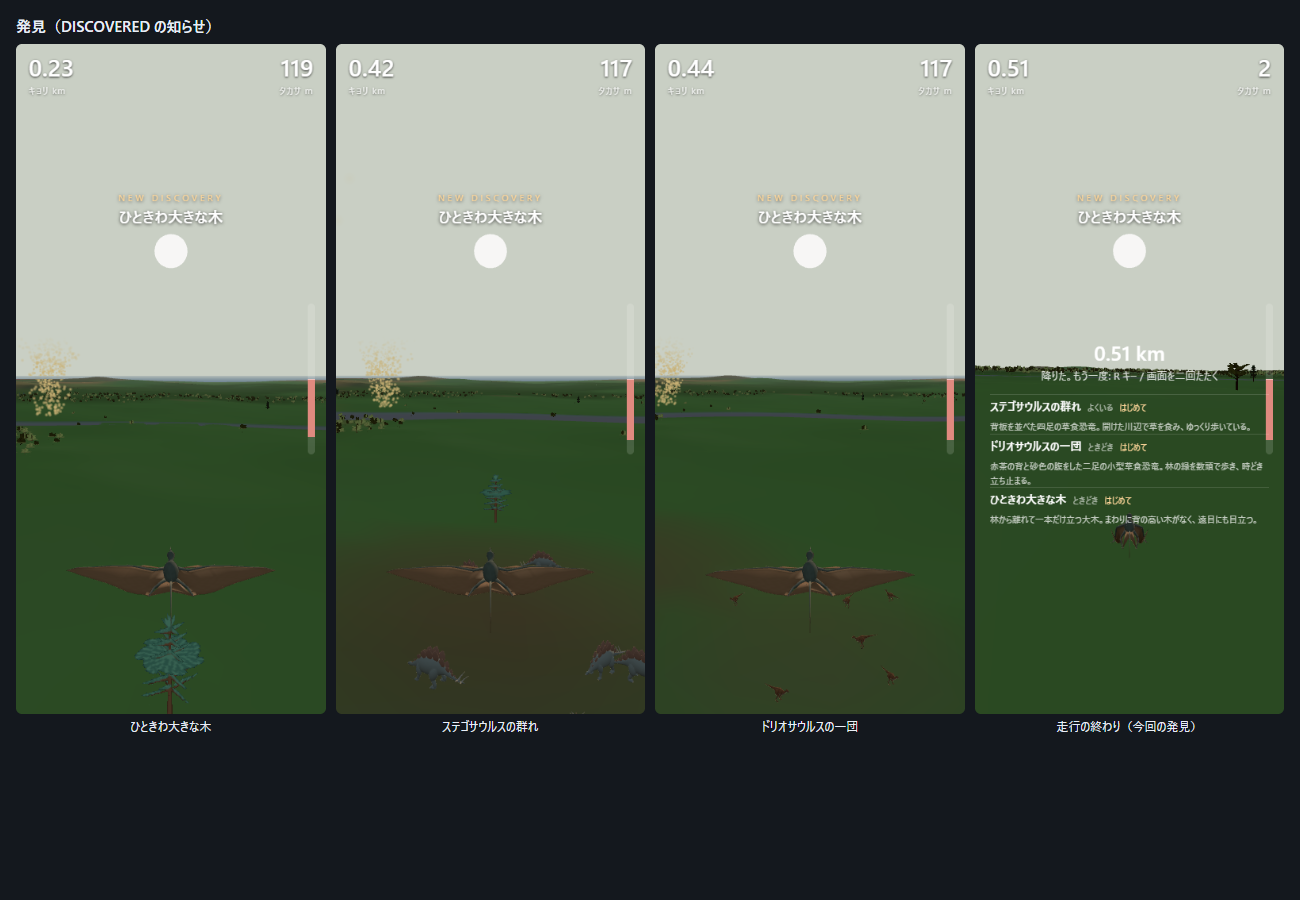
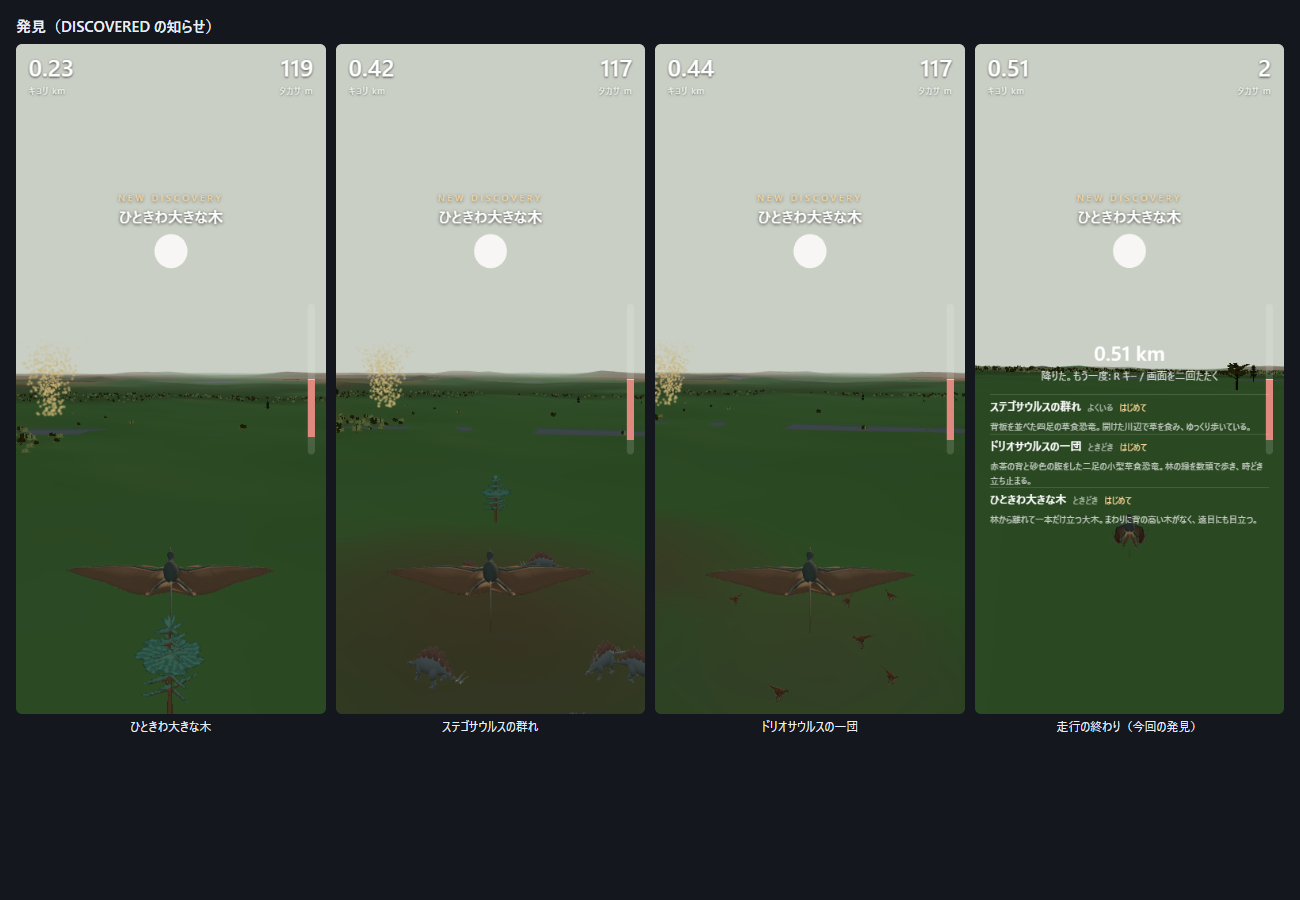
地面に「川に見える横線」が出るのを直した(地平の層を足し、層の中心をそろえた)
所長の画面に、川ではないまっすぐな横線が出ていた。

画素に何が映っているかをレイで直接調べたところ、線の正体は
「8.5km先の水面」だった。遠景の地面が6.5kmで終わり、その先は
30km四方の水の板が霧に隠れずに見えていた。近景/遠景の継ぎ目ではない。

ただし継ぎ目のすき間も別に実在した。層ごとに中心を丸めていたため
中心が最大46mずれ、どちらの地面も無い帯が最大164mできていた。

直したこと
- 地平の層(34km・升目500m)を足した。遠景の外側を埋め、霧に溶けるまで地面が続く
- 3層とも同じ中心を使う。すき間は実測0.0m(60秒の飛行中、720回測って最大0.0m)
- くり抜きは「1升 + 1段」内側まで。作り直しが1コマ遅れてもすき間が空かない
- 作り直しは1コマ1層だけに散らす。遠景は升目144mへ粗くした(近景への突き抜けは最大2.8m)

測った結果
- 水面のまっすぐな線: 直す前 10行/4行 -> 直した後 0行/0行(4つの高さ・向きで0)
- 地面の作り直し(中央値): 近景11.3 / 遠景16.0 / 地平8.5 ms。
  1kmあたりの総量は 537ms -> 248ms(近景の作り直しが1/4の頻度になったため)
- 検査 tools/check-ground.mjs を追加。全13本PASS
- 調査用に ?nowater=1 と ?debugground=1 を追加

Changed region(s): [[0.0, 0.4044, 0.7385, 0.4978], [0.9538, 0.4044, 0.9846, 0.4356]]

diff --git a/src/scene.js b/src/scene.js
@@ -35,7 +35,7 @@ export const CAMS = {
 class Ground {
   constructor(terrain, size, seg, opts = {}) {
     this.t = terrain; this.size = size; this.seg = seg; this.cell = size / seg;
-    this.inner = opts.inner || 0;             // 内側をくり抜く(高精細メッシュと重ねる)
+    this.coarse = !!opts.coarse;              // 遠くの層。目印の色は付けない(升目が大きすぎて効かない)
     const n = (seg + 1) * (seg + 1);
     const g = new THREE.BufferGeometry();
     this.pos = new Float32Array(n * 3);
@@ -53,13 +53,20 @@ class Ground {
     this.mesh.frustumCulled = false;
     this.snap = null;
   }
-  update(px, py, marks = []) {
-    const cx = Math.round(px / this.cell) * this.cell, cy = Math.round(py / this.cell) * this.cell;
+  // cx, cy: 全部の層で共通の中心(呼ぶ側で1回だけスナップする。層ごとに別々に丸めると継ぎ目にすき間が空く)
+  // coverHalf: 内側の層が覆う四角の半幅。ここをくり抜く / step: 中心が動く1段の大きさ
+  update(cx, cy, marks = [], coverHalf = 0, step = 0) {
     const herdKey = marks.map(m => Math.round(m.x) + ',' + Math.round(m.y)).join('|');
     if (this.snap && this.snap[0] === cx && this.snap[1] === cy && this.herdKey === herdKey) return false;
+    const t0 = performance.now();
     this.herdKey = herdKey;
     this.snap = [cx, cy];
-    const t = this.t, half = this.size / 2, s = this.seg, hole = this.inner / 2;
+    const t = this.t, half = this.size / 2, s = this.seg;
+    // くり抜きは「1升 + 1段」ぶん内側まで。
+    //   1升: 沈めた頂点に触れる四角形は形が崩れるので、それが内側の層に隠れるように
+    //   1段: この層の作り直しが1コマ遅れても、内側の層との間にすき間が空かないように
+    // (重なった帯では粗い面が上に出ることがあるが、遠景→近景は最大2mで見えない。tools/tmp-poke.mjs で測った)
+    const hole = coverHalf ? coverHalf - this.cell - step : 0;
     // ジュラ紀には草原がない。乾いた所は赤茶の土、湿った所はシダの緑、水辺は泥(黄土色の「草原」に見えていた)
     const dry = new THREE.Color(0xb0764a), wet = new THREE.Color(0x4f7d38), sand = new THREE.Color(0x7a6448);
     const canopyDry = new THREE.Color(0x22381f), canopyWet = new THREE.Color(0x3a5524);
@@ -70,7 +77,7 @@ class Ground {
       const x = cx - half + i * this.cell, y = cy - half + j * this.cell;
       let z = t.height(x, y);
       // 内側は高精細メッシュが描くので、ここは沈めて隠す
-      if (hole && Math.abs(x - cx) < hole && Math.abs(y - cy) < hole) z = -9999;
+      if (hole && Math.abs(x - cx) <= hole && Math.abs(y - cy) <= hole) z = -9999;
       this.pos[k] = SX * x; this.pos[k + 1] = z; this.pos[k + 2] = y;
       const m = t.moisture(x, y);
       // 湿り気は大半が中くらいで、そのまま混ぜるとオリーブ色になって何も変わらなかった。差を強調して振り分ける
@@ -84,7 +91,7 @@ class Ground {
       }
       // 発見対象の目印。上空から「あそこに何かある」と分かるように地面の色を変える
       // (土ぼこりで示したら上昇気流の柱と見分けがつかなかった)
-      for (const mk of marks) {
+      for (const mk of this.coarse ? [] : marks) {
         const dh = Math.hypot(x - mk.x, y - mk.y);
         if (dh < mk.r) { tintColor.set(mk.color); c.lerp(tintColor, mk.strength * (1 - dh / mk.r) ** 0.6); break; }
       }
@@ -106,6 +113,8 @@ class Ground {
       }
     }
     this.geo.attributes.color.needsUpdate = true;
+    this.lastMs = performance.now() - t0;                  // 検査用: 作り直しにかかった時間
+    (this.times = this.times || []).push(this.lastMs);
     return true;
   }
 }
@@ -725,9 +734,13 @@ export class View {
     this.sunLight = new THREE.DirectionalLight(0xffe6c4, 1.5);
     this.sunLight.position.set(-0.4, 1, 0.5);
     this.scene.add(this.sunLight, new THREE.HemisphereLight(0xbcd6ff, 0x5a5340, 1.0));
-    this.far = new Ground(terrain, 13000, 110, { inner: 2600 });
+    // 地面は3層。近景(細かい) / 遠景 / 地平(粗い)。
+    // 地平の層が無いと、遠景が終わる6.5km先から水の板が見えて、まっすぐな川のような線になった
+    this.horizon = new Ground(terrain, 34000, 68, { coarse: true });   // 升目500m。霧でほとんど見えない
+    this.far = new Ground(terrain, 13000, 90);      // 升目144m。110分割(118m)から減らして作り直しを軽くした
+                                                    // (近景に対して面が上に出る量は最大2.8m。1.3km先では見えない)
     this.near = new Ground(terrain, 2600, 72);
-    this.scene.add(this.far.mesh, this.near.mesh);
+    this.scene.add(this.horizon.mesh, this.far.mesh, this.near.mesh);
     const water = new THREE.Mesh(new THREE.PlaneGeometry(30000, 30000),
       new THREE.MeshLambertMaterial({ color: 0x4d7fa8, transparent: true, opacity: 0.85 }));
     water.rotation.x = -Math.PI / 2; water.position.y = terrain.water + 0.6;
@@ -822,6 +835,19 @@ export class View {
     this.camera.aspect = w / h;
     this.camera.updateProjectionMatrix();
   }
+  // 検査用: 画面のその点に何が映っているか(近景の地面 / 遠景の地面 / 水面 / 何もない)
+  pick(x, y) {
+    this._ray = this._ray || new THREE.Raycaster();
+    // 地面は毎回作り直しているので、当たり判定用の境界を取り直す(古いままだとレイが素通りする)
+    for (const m of [this.near.mesh, this.far.mesh, this.horizon.mesh]) { m.geometry.computeBoundingSphere(); m.geometry.computeBoundingBox(); }
+    const w = this.renderer.domElement.clientWidth || innerWidth, h = this.renderer.domElement.clientHeight || innerHeight;
+    this._ray.setFromCamera(new THREE.Vector2((x / w) * 2 - 1, -(y / h) * 2 + 1), this.camera);
+    const hits = this._ray.intersectObjects([this.near.mesh, this.far.mesh, this.horizon.mesh, this.water], false);
+    if (!hits.length) return { what: 'なし' };
+    const o = hits[0].object;
+    const what = o === this.near.mesh ? '近景' : o === this.far.mesh ? '遠景' : o === this.horizon.mesh ? '地平' : '水面';
+    return { what, dist: hits[0].distance, point: [hits[0].point.x, hits[0].point.y, hits[0].point.z] };
+  }
   // 検査用: 座標を画面のピクセルへ落とす
   projectLocal(x, y, z) { return this._proj(new THREE.Vector3(x, y, z).applyMatrix4(this.glider.matrixWorld)); }
   projectWorld(x, y, z) { return this._proj(new THREE.Vector3(x, y, z)); }
@@ -851,8 +877,16 @@ export class View {
   }
   update(g, dt, sun) {
     const marks = this.sites ? this.sites.tints(g.x, g.y, 9000) : [];
-    this.far.update(g.x, g.y, marks);
-    this.near.update(g.x, g.y, marks);
+    // 全部の層で同じ中心を使う(層ごとに丸めると、くり抜きと近景の四角がずれて、すき間から水面が見えた)
+    const step = this.far.cell;
+    const cx = Math.round(g.x / step) * step, cy = Math.round(g.y / step) * step;
+    // 作り直しは重い(近景6ms・遠景12ms・地平5ms)ので、1コマに1層だけ。
+    // 1段ぶんの遅れなら、くり抜きは1升内側に切ってあるのでちょうど接して隙間は空かない。
+    // それ以上遅れたら順番を待たずに作り直す
+    const late = q => !q.snap || Math.max(Math.abs(q.snap[0] - cx), Math.abs(q.snap[1] - cy)) > step * 1.5;
+    let busy = this.near.update(cx, cy, marks);
+    if (!busy || late(this.far)) busy = this.far.update(cx, cy, marks, this.near.size / 2, step) || busy;
+    if (!busy || late(this.horizon)) this.horizon.update(cx, cy, marks, this.far.size / 2, step);
     this.water.position.x = SX * g.x; this.water.position.z = g.y;
     this.forest.update(g.x, g.y);
     this.plumes.update(g.x, g.y, dt);

diff --git a/src/main.js b/src/main.js
@@ -44,6 +44,8 @@ const view = new View(el('app'), terrain, field, camOf(CAM_KEY), SIZE);
 if (!q.has('box')) view.loadModel(import.meta.env.BASE_URL + 'models/rh02.glb');   // ?box で灰色の箱のまま
 if (!q.has('nodinos')) view.stegos.load(import.meta.env.BASE_URL + 'models/stego.glb').catch(e => console.error('ステゴサウルスの読み込みに失敗', e));   // ?nodinos で無し
 if (!q.has('nodinos')) view.dryos.load(import.meta.env.BASE_URL + 'models/dryo.glb').catch(e => console.error('ドリオサウルスの読み込みに失敗', e));
+if (q.has('nowater')) view.water.visible = false;          // 調査用: 水の板を消す
+if (q.has('debugground')) setTimeout(() => window.__slice.debugGround(true), 0);   // 調査用: 地面の層を色分け
 if (!q.has('notrees')) view.forest.load(import.meta.env.BASE_URL, view.renderer).catch(e => console.error('木の読み込みに失敗', e));   // ?notrees で木なし(比較用)
 
 // スタート画面のカメラ選択。選んだものは次回も使う
@@ -251,6 +253,36 @@ window.__slice = {
   forest: () => ({ counts: view.forest.counts, tris: view.forest.triangles(), frameTris: view.renderer.info.render.triangles, calls: view.renderer.info.render.calls }),
   bone: name => view.boneInfo(name),
   volcanoes: rad => terrain.volcanoesNear(glider.x, glider.y, rad || 20000).map(v => ({ x: v.x, y: v.y, H: Math.round(v.H), top: Math.round(terrain.height(v.x, v.y)) })),
+  // 検査用: 地面の2層(近景・遠景)の位置と、水面
+  // 検査用: 作り直しにかかった時間の分布(最初の1回は準備も含むので分けて見る)
+  groundTimes: () => {
+    const of = g => {
+      const t = (g.times || []).slice();
+      if (!t.length) return { n: 0 };
+      const first = t[0], rest = t.slice(1).sort((a, b) => a - b);
+      return { n: t.length, 最初: +first.toFixed(1),
+               中央値: +(rest.length ? rest[Math.floor(rest.length / 2)] : first).toFixed(1),
+               最大: +(rest.length ? rest[rest.length - 1] : first).toFixed(1) };
+    };
+    return { 近景: of(view.near), 遠景: of(view.far), 地平: of(view.horizon) };
+  },
+  ground: () => ({
+    near: { cx: view.near.snap[0], cy: view.near.snap[1], half: view.near.size / 2, cell: view.near.cell, ms: view.near.maxMs || 0 },
+    far: { cx: view.far.snap[0], cy: view.far.snap[1], hole: view.near.size / 2 - view.far.cell - view.far.cell, cell: view.far.cell, half: view.far.size / 2, ms: view.far.maxMs || 0 },
+    horizon: { cx: view.horizon.snap[0], cy: view.horizon.snap[1], hole: view.far.size / 2 - view.horizon.cell - view.far.cell, cell: view.horizon.cell, half: view.horizon.size / 2, ms: view.horizon.maxMs || 0 },
+  }),
+  // 調査用: 層ごとに色を変える(?debugground=1 と同じ)
+  debugGround: (on = true) => {
+    view.near.mesh.material.color.set(on ? 0x88ff88 : 0xffffff);
+    view.far.mesh.material.color.set(on ? 0xff8888 : 0xffffff);
+    view.horizon.mesh.material.color.set(on ? 0x8888ff : 0xffffff);
+  },
+  waterVisible: on => { view.water.visible = on; },
+  horizonVisible: on => { view.horizon.mesh.visible = on; },
+  grounds: () => ({ near: view.near, far: view.far, horizon: view.horizon }),
+  pick: (x, y) => view.pick(x, y),
+  waterY: () => terrain.water,
+  _canvas: () => view.renderer.domElement,
   camRoll: () => view.cam.roll,
   begin() { ui.start.classList.add('hidden'); running = true; },
   auto(on = true) { auto = on ? new Autopilot() : null; },

diff --git a/README.md b/README.md
@@ -106,6 +106,20 @@ tools/sheet.mjs   撮った絵を1枚に並べる
 
 **地形は運ばない。** 川の距離場・堤・段丘・種つきノイズの関数で、その場で作る。上昇気流もチャンク単位で必要になったときに湧く。だから場は無限で、転送量はゼロ。
 
+### 地面の3層
+
+| 層 | 大きさ / 升目 | 役目 |
+|---|---|---|
+| 近景 | 2.6km / 36m | 足元。木や恐竜と同じ細かさ |
+| 遠景 | 13km / 144m | 見えている範囲のほとんど |
+| 地平 | 34km / 500m | 霧に溶ける手前まで。**これが無いと6.5km先から水面の板が見えて、まっすぐな川のような線になる** |
+
+- 3層とも**同じ中心**を使う(層ごとに丸めると、くり抜きと内側の四角がずれて、すき間から水面が見えた。実測で最大164mの帯)
+- くり抜きは「1升 + 1段」ぶん内側まで。沈めた頂点に触れる四角形は形が崩れるので1升、作り直しが1コマ遅れてもすき間が空かないように1段
+- 作り直しは重い(近景11ms・遠景18ms・地平8ms)ので**1コマに1層だけ**。遅れが1段を超えたら順番を待たない
+- 重なった帯では粗い面が上に出ることがある。遠景→近景は最大2.8mで見えない(`tools/tmp-poke.mjs` で測った)
+- 調査用: `?nowater=1`(水の板を消す) / `?debugground=1`(層ごとに色分け)、検査は `tools/check-ground.mjs`
+
 ## 縮尺（`src/world.js` の TUNE と `src/flight.js` の AIR）
 
 | | 値 | 効く先 |
